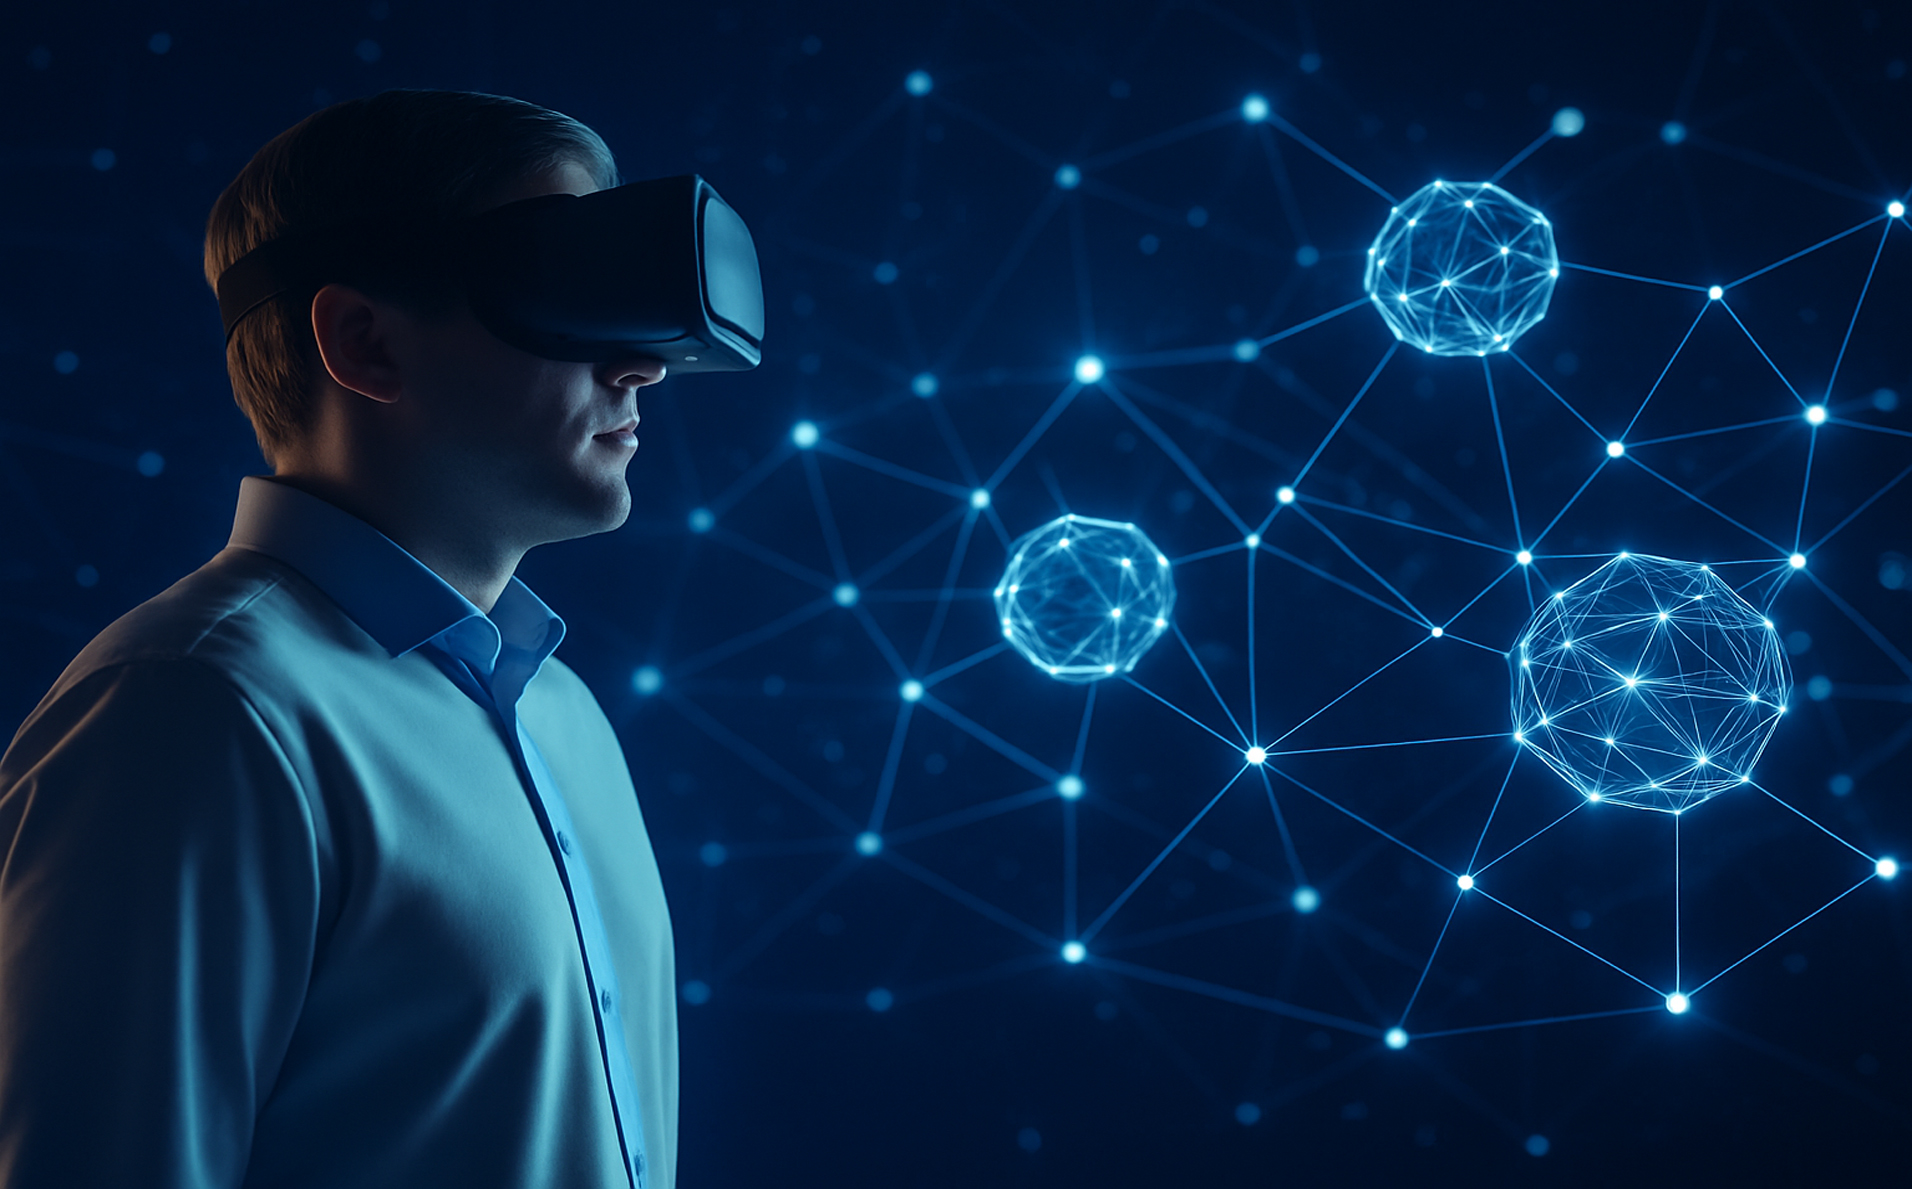
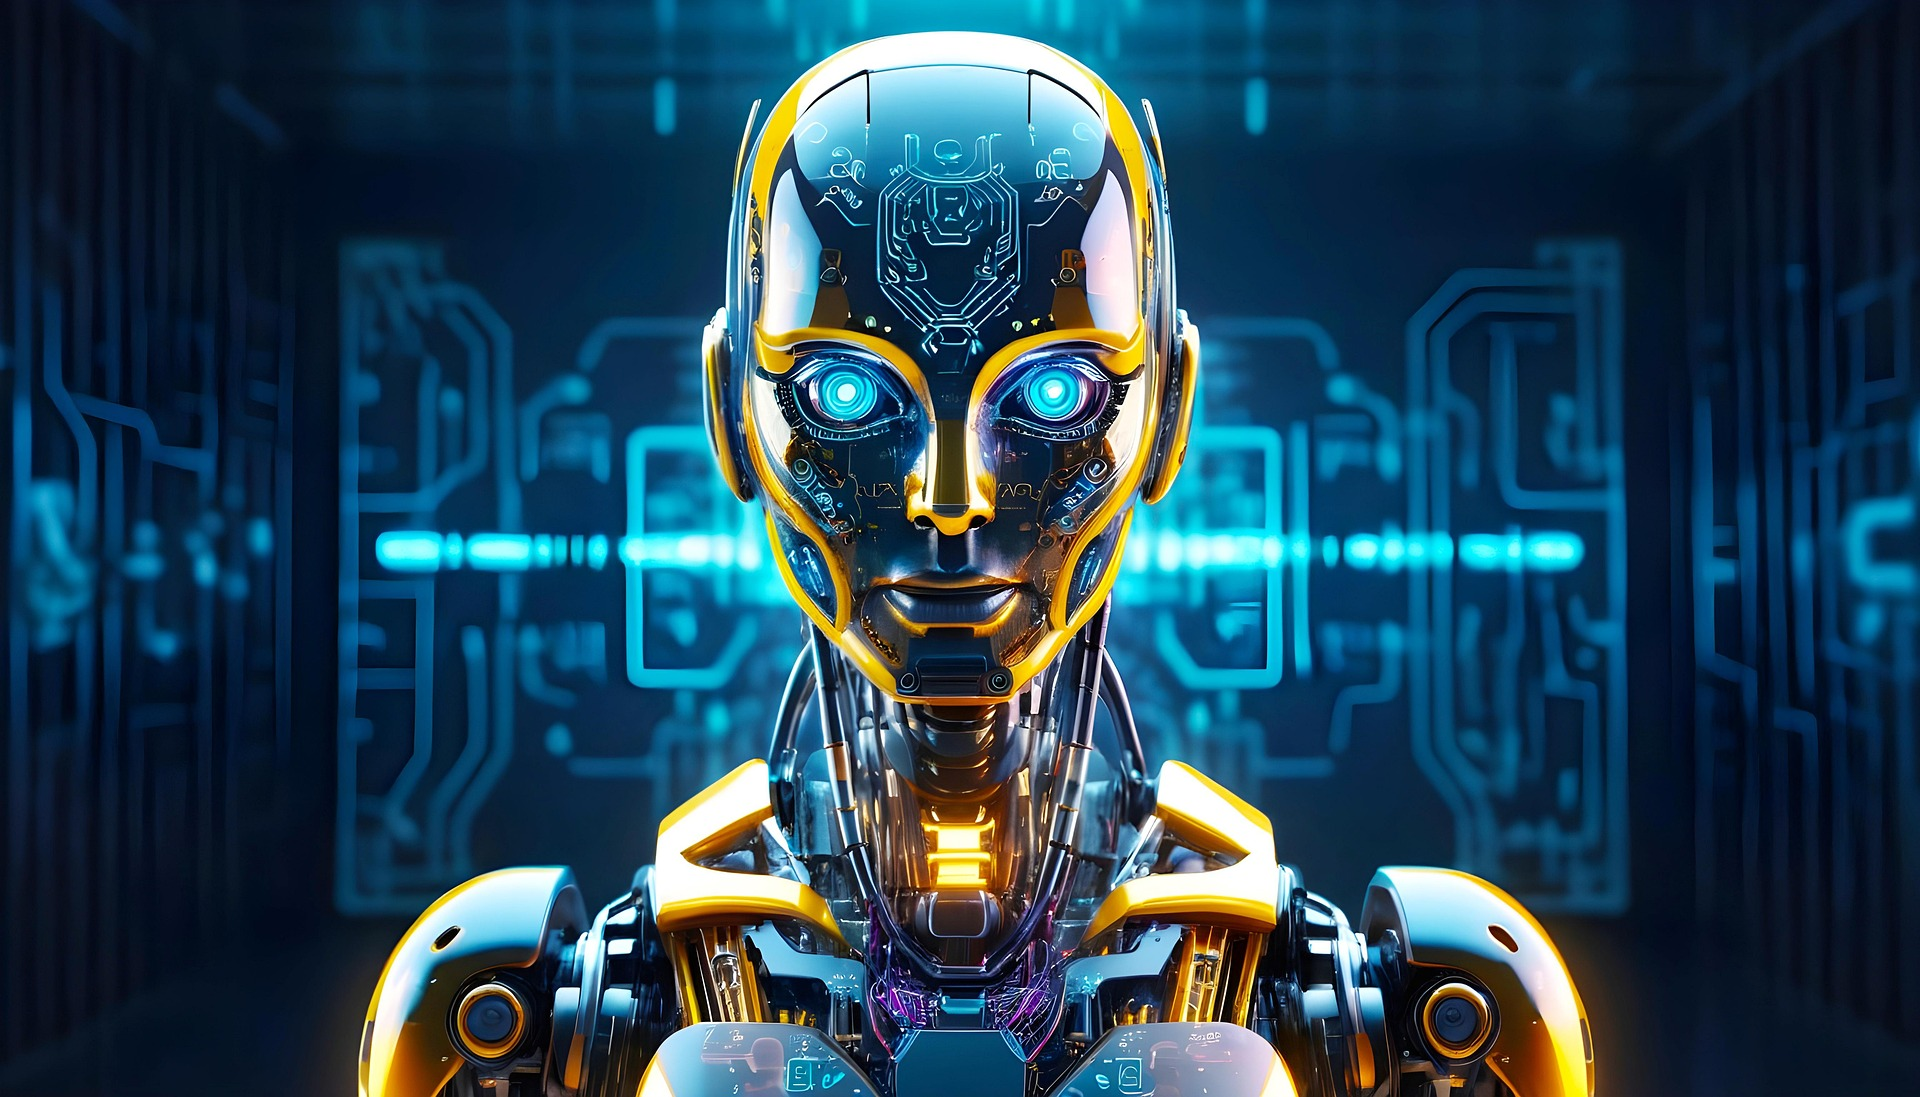
little upgrade

diff --git a/resources/Semester_II/sem2_course.html b/resources/Semester_II/sem2_course.html
@@ -244,24 +244,7 @@
             </div>
         </div>
 
-        <div class="courses">
-            <img src="images/c10.jpeg" alt="">
-            <div class="details">
-                <span>Updated 05/03/25</span>
-                <h6>C-Programming all resources.</h6>
-                <div class="star">
-                    <i class="fas fa-star"></i>
-                    <i class="fas fa-star"></i>
-                    <i class="fas fa-star"></i>
-                    <i class="fas fa-star"></i>
-                    <i class="fas fa-star"></i>
-                    <span>(600+)</span>
-                </div>
-            </div>
-            <div class="cost">
-                Free
-            </div>
-        </div>
+    
 
     </div>
 </section>
